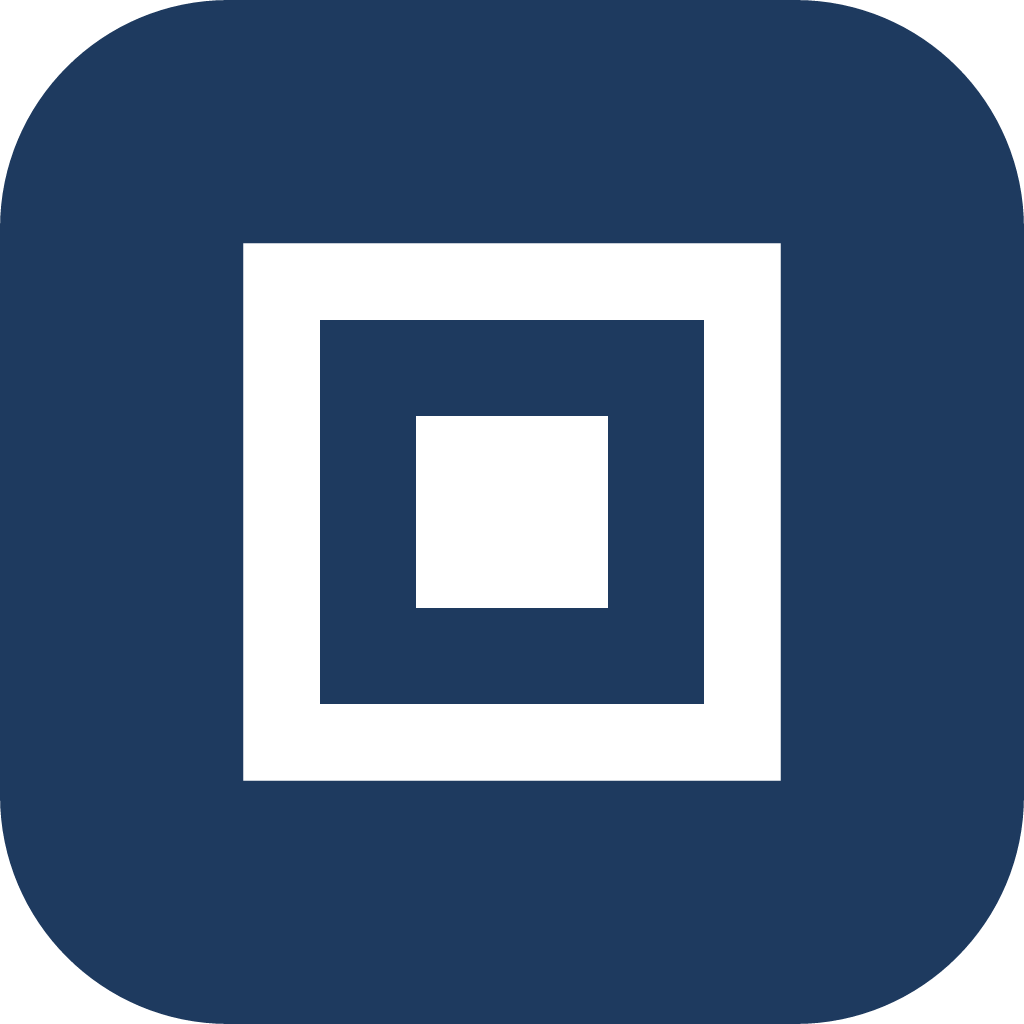
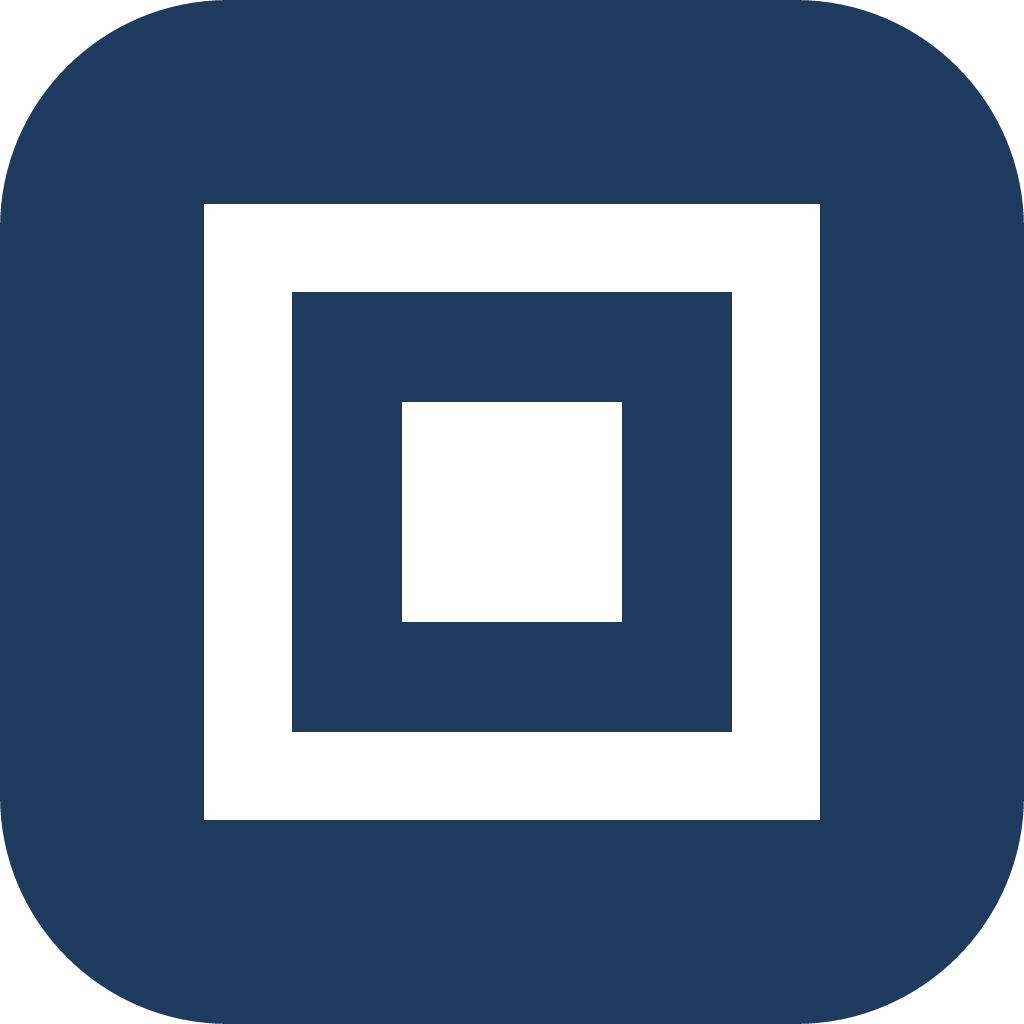
fix(brand): correct mark sizing + eliminate raster hairlines
Three review fixes to the brand kit generator:

- Vertical lockup: the mark read undersized next to the full wordmark
  line (the horizontal lockup's "mark height = cap height" rule, applied
  here, sits low). Scale it to 1.5x the wordmark cap height instead
  (VERTICAL_MARK_CAP_RATIO), documented as an explicit choice in
  assets/brand/README.md since brand doc §7 has no rule for this variant.

- Raster outputs (PNG icons, favicon.ico, app icon, social preview): a
  non-integer px-per-grid-unit scale left mark rect edges on fractional
  pixels, which the rasterizer anti-aliased into a mid-grey hairline
  (measured: 127,127,127 at the social preview's old ~4.57 px/unit, and
  present at duhem-48.png's native 1.5 px/unit on the center square).
  Fixed two ways: every raster mark group now carries
  shape-rendering="crispEdges" (snaps axis-aligned edges to the pixel
  grid), and the social preview additionally uses a fixed integer
  SOCIAL_MARK_PX_PER_UNIT = 7 so its mark is sized deliberately, not just
  clamped after the fact. Verified 0 partial-alpha/grey pixels across all
  six PNG sizes and the social preview's mark region by decoding the
  committed PNGs directly.

- App icon: "~60% of plate width" (§9) was being applied to the mark's
  32-unit canvas, but the mark's visible ink only fills 28 of those 32
  units (2-unit inset each side) — so the visible mark landed at
  ~52.5% (528/1024), not 60%. Now scales the 28-unit visual span itself
[…]

Changed region(s): [[0.1875, 0.1875, 0.8125, 0.8125], [0.2812, 0.2812, 0.7188, 0.7188], [0.375, 0.375, 0.625, 0.625]]

diff --git a/assets/brand/README.md b/assets/brand/README.md
@@ -38,4 +38,23 @@ All four are `devDependencies` of this directory's own `package.json`, isolated 
 
 ## Layout notes (an interpretation, not a literal transcription of §7)
 
-`docs/duhem-brand.md` §7 states the lockup rule as "mark height = wordmark cap height" and "gap = mark frame thickness × (wordmark cap height / mark canvas size)". The generator implements this as: the mark's *visual* span (28 of its 32-unit canvas, matching the bars' extent) is scaled to equal the wordmark's cap height in pixels, and the gap between mark and wordmark equals the mark's frame thickness (4 units) at that same scale. Vertical alignment centers the mark's geometric middle on the wordmark's ink (visual) center rather than its baseline, since "Duhem" has no descenders and baseline-centering would sit the mark visibly low. This produces the same qualitative result as the doc's own illustrative lockup SVG in §7, computed exactly rather than eyeballed.
+`docs/duhem-brand.md` §7 states the lockup rule as "mark height = wordmark cap height" and "gap = mark frame thickness × (wordmark cap height / mark canvas size)". The generator implements this as: the mark's *visual* span (28 of its 32-unit canvas, matching the bars' extent) is scaled to equal the wordmark's cap height in pixels, and the gap between mark and wordmark equals the mark's frame thickness (4 units) at that same scale. Vertical alignment centers the mark's geometric middle on the wordmark's ink (visual) center rather than its baseline, since "Duhem" has no descenders and baseline-centering would sit the mark visibly low. This produces the same qualitative result as the doc's own illustrative lockup SVG in §7, computed exactly rather than eyeballed. This §7 rule is for the *horizontal* lockup only (`duhem-lockup{,-light,-dark}.svg`).
+
+### Vertical lockup and social preview: mark size
+
+§7 gives no sizing rule for the vertical variant (mark above wordmark). Applying the horizontal rule's "mark height = wordmark cap height" there reads undersized, because the mark then sits over a wordmark that also has full descender/ascender width below and beside it, not just a single cap-height line. `duhem-lockup-vertical.svg` instead scales the mark to `VERTICAL_MARK_CAP_RATIO = 1.5` × the wordmark cap height — a deliberate, documented choice, not derived from the brand doc. `social-preview.png` reuses the same intent (its wordmark font size and mark scale are picked so the mark lands close to that same ~1.5× ratio) but is constrained by the integer-pixel rule below, so it isn't an exact 1.5×.
+
+### Raster outputs: integer px-per-grid-unit + `shape-rendering="crispEdges"`
+
+The mark is five axis-aligned rects on a 32-unit grid. When a raster output's scale factor isn't a whole number of pixels per grid unit, a rect edge lands on a fractional pixel and the rasterizer anti-aliases it — for a straight edge this doesn't blend into a diagonal, it just leaves a partial-coverage (mid-grey, e.g. 50% grey at a half-covered pixel) row or column sitting on what should be a crisp black/white edge. This showed up first in `social-preview.png` at its old ≈4.57 px/unit scale (a 127,127,127 grey line at the bottom-bar seam) and is also present in `duhem-48.png` at its native 1.5 px/unit scale (the center square's edges, at unit 11 × 1.5 = 16.5px).
+
+Two fixes, both applied:
+
+1. Where a script constant controls the scale (`social-preview.png`, `duhem-app-icon.png`), the constant is chosen so px-per-grid-unit is a whole number: `SOCIAL_MARK_PX_PER_UNIT = 7` for the social preview (`markCanvasPx` = 224, `gapPx` = 28, mark placement rounded to the nearest px), and an integer scale for the app icon (see below).
+2. Every raster mark group (`rasterMarkSvg` for the `duhem-*.png` sizes and the ICO source images, `appIconSvg`, and the social-preview's mark group) carries `shape-rendering="crispEdges"`, which tells the SVG rasterizer to snap axis-aligned edges to the pixel grid instead of anti-aliasing them — a safety net for any size (like the 16/32/64/192/512 PNGs) that isn't hand-tuned to an exact integer scale. Verified pixel-exact (0 partial-alpha / mid-grey pixels) across all six PNG sizes and the social preview's mark region after the fix, by decoding the actual committed PNGs and scanning for non-pure-black/white or partial-alpha pixels.
+
+The wordmark and tagline (glyph outline paths, not rects) are unaffected by and don't need `crispEdges` — normal anti-aliasing on curved/diagonal type is expected and correct.
+
+### App icon: ~60% of plate width means the *visual* mark, not its canvas
+
+§9 says the mark should occupy "~60% of plate width". The mark's own 32-unit canvas has a 2-unit empty inset on each side (the bars run 2..30), so scaling the *whole 32-unit canvas* to 60% of the plate under-sizes the *visible* mark to 60% × (28/32) ≈ 52.5% of the plate — which is what an earlier version of this script did (528/1024 ≈ 52%, i.e. `markPx = round(1024 * 0.6)` scaled the full canvas). The fix scales the mark so its 28-unit *visual* span, not its 32-unit canvas, is the one that lands near 60% of the plate, on an integer px-per-grid-unit: `APP_ICON_TARGET_VISUAL_RATIO = 0.6` resolves to a 22px/unit scale (`Math.round(0.6 × 1024 / 28) = 22`), giving a 704px mark canvas, a 616px visual span, and a 616/1024 ≈ 60.2% ratio — on the nose, with every edge (canvas and visual span alike) on a whole pixel. The plate stays the navy `#1E3A5F` accent (§5), matching the ratio the dashboard's own apple-touch-icon (a sibling branch, Phase 2) independently landed on (≈62%).
